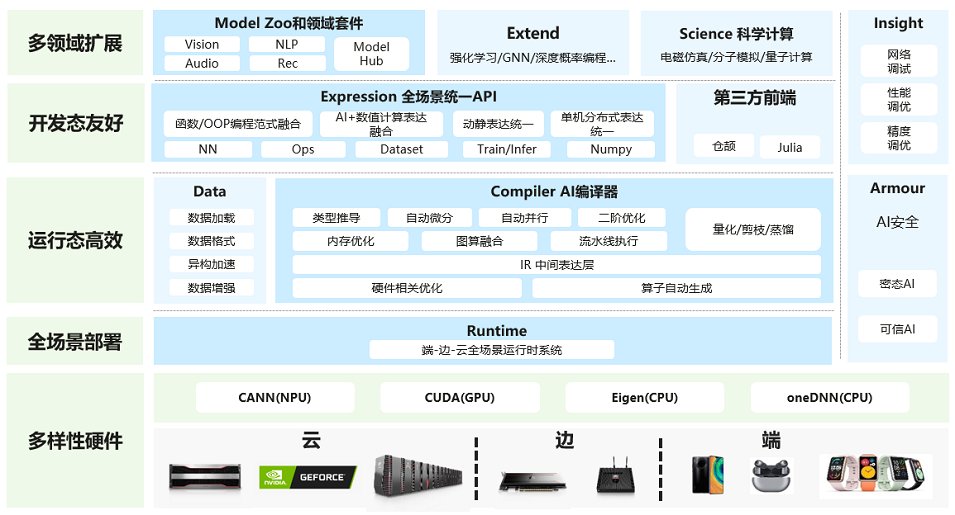
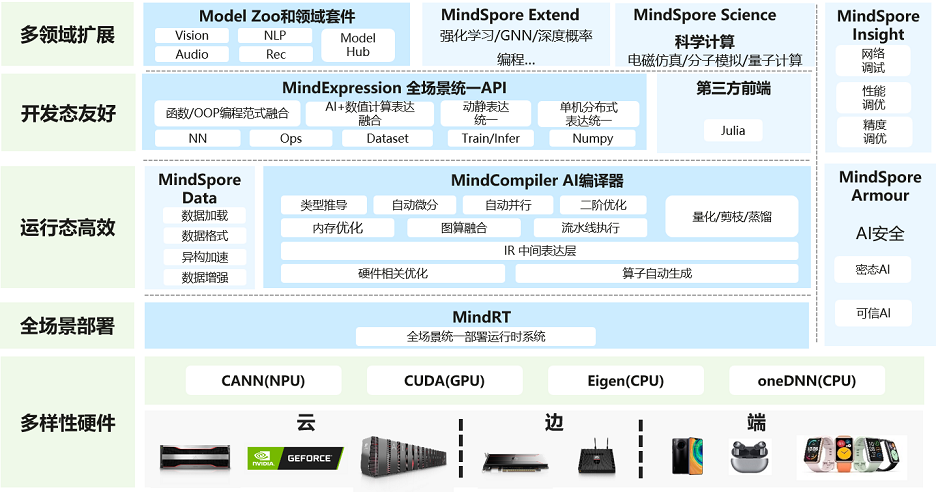
modify the tutorials file structure

diff --git a/tutorials/source_en/beginner/introduction.md b/tutorials/source_en/beginner/introduction.md
@@ -8,24 +8,24 @@ The following describes the Huawei AI full-stack solution and the position of Mi
 
 ## Introduction to MindSpore
 
-MindSpore is a deep learning framework in all scenarios, aiming to achieve easy development, efficient execution, and all-scenario coverage.
+MindSpore is a deep learning framework in all scenarios, aiming to achieve easy development, efficient execution, and unified deployment for all scenarios.
 
-Easy development features user-friendly APIs and low debugging difficulty. Efficient execution is reflected in computing, data preprocessing, and distributed training. All-scenario coverage means that the framework supports cloud, edge, and device scenarios.
+Easy development features user-friendly APIs and low debugging difficulty. Efficient execution is reflected in computing, data preprocessing, and distributed training. Unified deployment for all scenarios means that the framework supports cloud, edge, and device scenarios.
 
 The following figure shows the overall MindSpore architecture:
 
 ![MindSpore-arch](https://mindspore-website.obs.cn-north-4.myhuaweicloud.com/website-images/master/tutorials/source_en/beginner/images/introduction2.png)
 
 - **ModelZoo**: provides available deep learning algorithm networks, and more developers are welcome to contribute new networks. ([ModelZoo](https://gitee.com/mindspore/models))
-- **Extend**: The MindSpore expansion package supports new domain scenarios, such as GNN, deep probabilistic programming, and reinforcement learning. More developers are expected to contribute and build the library.
-- **Science**: MindScience is a scientific computing kit for various industries based on the converged MindSpore framework. It contains the industry-leading datasets, basic network structures, high-precision pre-trained models, and pre-and post-processing tools that accelerate application development of the scientific computing.
-- **Expression**: Python-based front-end expression and programming interface that supports two fusions (function/OOP programming paradigm fusion and AI+ numerical computation expression fusion) and two unifications (dynamic expression unification and single-computer distributed expression unification).
-- **Third-party front-end**: support for third-party multilingual front-end expression, the future plans to successively provide C/C++, Huawei self-developed programming language front-end - Cangjie (currently still in the pre-research stage) and other third-party front-end docking work, and the introduction of more third-party ecology.
-- **Data**: provides functions such as efficient data processing, common dataset loading and programming interfaces, and allows users to flexibly define processing registration and pipeline parallel optimization.
-- **Compiler**: The core compiler of the layer, which implements three major functions based on the unified device-cloud MindIR, including hardware-independent optimization (type derivation, automatic differentiation, and expression simplification), hardware-related optimization (automatic parallelism, memory optimization, graph kernel fusion, and pipeline execution), and optimization related to deployment and inference (quantification and pruning).
-- **Runtime**: MindSpore runtime system, including the runtime system on the cloud host, runtime system on the device, and lightweight runtime system of the IoT platform.
-- **Insight**: MindSpore visualized debugging and tuning tool, allowing users to debug and tune the training network ([More Information](https://mindspore.cn/mindinsight/docs/en/master/index.html)).
-- **Armour**: For enterprise-level applications, provides enhanced functions related to security and privacy protection, such as anti-robustness, model security testing, differential privacy training, privacy leakage risk assessment, and data drift detection ([More Information](https://mindspore.cn/mindarmour/docs/en/master/index.html)).
+- **MindSpore Extend**: The MindSpore expansion package supports new domain scenarios, such as GNN, deep probabilistic programming, and reinforcement learning. More developers are expected to contribute and build the library.
+- **MindSpore Science**: MindScience is a scientific computing kit for various industries based on the converged MindSpore framework. It contains the industry-leading datasets, basic network structures, high-precision pre-trained models, and pre-and post-processing tools that accelerate application development of the scientific computing.
+- **MindExpression**: Python-based front-end expression and programming interface that supports two fusions (function/OOP programming paradigm fusion and AI+ numerical computation expression fusion) and two unifications (dynamic expression unification and single-computer distributed expression unification).
+- **Third-party front-end**: support for third-party multilingual front-end expression, the future plans to successively provide C/C++ and other third-party front-end docking work, and the introduction of more third-party ecology.
+- **MindSpore Data**: provides functions such as efficient data processing, common dataset loading and programming interfaces, and allows users to flexibly define processing registration and pipeline parallel optimization.
+- **MindCompiler**: The core compiler of the layer, which implements three major functions based on the unified device-cloud MindIR, including hardware-independent optimization (type derivation, automatic differentiation, and expression simplification), hardware-related optimization (automatic parallelism, memory optimization, graph kernel fusion, and pipeline execution), and optimization related to deployment and inference (quantification and pruning).
+- **MindRT**: MindSpore runtime system, including the runtime system on the cloud host, runtime system on the device, and lightweight runtime system of the IoT platform.
+- **MindSpore Insight**: MindSpore visualized debugging and tuning tool, allowing users to debug and tune the training network ([More Information](https://mindspore.cn/mindinsight/docs/en/master/index.html)).
+- **MindSpore Armour**: For enterprise-level applications, provides enhanced functions related to security and privacy protection, such as anti-robustness, model security testing, differential privacy training, privacy leakage risk assessment, and data drift detection ([More Information](https://mindspore.cn/mindarmour/docs/en/master/index.html)).
 
 ### Execution Process
 
@@ -47,7 +47,7 @@ After the neural network model is trained, you can export the model or load the 
 
 ### Design Philosophy
 
-- Supporting full-scenario collaboration
+- Supporting unified deployment for all scenarios
 
     MindSpore is derived from industry-wide best practices. It provides unified model training, inference, and export APIs for data scientists and algorithm engineers. It supports flexible deployment in different scenarios such as the device, edge, and cloud, and promotes the prosperity of domains such as deep learning and scientific computing.
 
@@ -62,11 +62,11 @@ After the neural network model is trained, you can export the model or load the 
 
     For example, set `set_context(mode=PYNATIVE_MODE)` to switch to the dynamic graph mode, or set `set_context(mode=GRAPH_MODE)` to switch to the static graph mode.
 
-- Using functional differentiable programming architecture and allowing users to focus on the mathematical native expression of model algorithms
+- Using AI and scientific computing fusion programming and allowing users to focus on the mathematical native expression of model algorithms
 
-    Neural network models are usually trained based on gradient descent algorithms, but the manual derivation process is complicated and the results are prone to errors. The Automatic Differentiation mechanism based on Source Code Transformation (SCT) of MindSpore adopts a functional differentiable programming architecture, and provides a Python programming interface at the interface layer, including the expression of control flow. Users can focus on the mathematically native expression of the model algorithm without manual derivation.
+    On the basis of support for AI model training and inference programming, it extends the support for flexible automatic differential programming capability, supports differential derivation in the case of function and control flow expression, and supports various kinds of advanced differential capabilities, such as forward differentiation and higher-order differentiation, based on which users can realize the programming expression of differential functions commonly used in scientific computation, so as to support the fusion programming and development of AI and scientific computation.
 
-- Unifying the coding method of single device and distributed training
+- Distributed training native
 
     As a scale of neural network models and datasets continuously increases, parallel distributed training becomes a common practice of neural network training. However, the strategy selection and compilation of parallel distributed training are very complex, which severely restricts training efficiency of a deep learning model and hinders development of deep learning. MindSpore unifies the coding methods of single device and distributed training. Developers do not need to write complex distributed strategies. They can implement distributed training by adding a small amount of code to the single device code, which improves the efficiency of neural network training, greatly reduces the threshold of AI development, and enables users to quickly implement model ideas.
 
@@ -96,14 +96,16 @@ Ascend computing is a full-stack AI computing infrastructure and application bas
 
 Huawei Atlas AI computing solution is based on Ascend series AI processors and uses various product forms such as modules, cards, edge stations, servers, and clusters to build an all-scenario AI infrastructure solution oriented to device, edge, and cloud. It covers data center and intelligent edge solutions, as well as the entire inference and training processes in the deep learning field.
 
+Th Ascend AI full stack is shown below:
+
+![Ascend full stack](https://mindspore-website.obs.cn-north-4.myhuaweicloud.com/website-images/master/tutorials/source_en/beginner/images/introduction1.png)
+
 The functions of each module are described as follows:
 
-- **Atlas series**: provides AI training, inference cards, and training servers ([learn more](https://www.hiascend.com/en/ecosystem/industry)).
-- **CANN at heterogeneous computing architecture**: a driver layer that enables chips ([learn more](https://www.hiascend.com/en/software/cann)).
-- **MindSpore**: all-scenario AI framework ([learn more](https://www.mindspore.cn/en)).
-- **MindX SDK (Ascend SDK)**: provides the application solution ([learn more](https://www.hiascend.com/en/software/mindx-sdk)).
-- **ModelArts**: HUAWEI CLOUD AI development platform ([learn more](https://www.huaweicloud.com/product/modelarts.html)).
-- **MindStudio**: E2E development toolchain that provides one-stop IDE for AI development ([learn more](https://www.hiascend.com/en/software/mindstudio)).
+- **Ascend Application Enablement**: AI platform or service capabilities provided by Huawei major product lines based on MindSpore.
+- **MindSpore**: Support for device-edge-cloud-independent and collaborative unified training and inference frameworks.
+- **CANN**: A driver layer that enables Ascend chips ([learn more](https://www.hiascend.com/en/software/cann)).
+- **Compute Resources**: Ascend serialized IP, chips and servers.
 
 For details, click [Huawei Ascend official website](https://e.huawei.com/en/products/servers/ascend).
 

diff --git a/docs/mindspore/source_en/design/overview.md b/docs/mindspore/source_en/design/overview.md
@@ -28,7 +28,7 @@ The overall MindSpore architecture is divided into four layers:
 
 ## Design Concept
 
-MindSpore provides users with programming paradigms for languages such as Python. Based on source code conversion, users can use native Python control syntax and other advanced APIs such as Tuple, List, and Lambda expressions.
+MindSpore is a full-scenario deep learning framework that aims to achieve three goals: easy development, efficient execution, and unified deployment for all scenarios. Ease of development is characterized by a friendly API and low debugging difficulty; efficient execution includes computational efficiency, data preprocessing efficiency, and distributed training efficiency; and full-scenario means that the framework supports cloud, edge, and device-side scenarios at the same time.
 
 ### Programming Paradigm
 
@@ -42,12 +42,6 @@ MindSpore implements [functional differential programming](https://www.mindspore
 
 Also based on the functional programming paradigm, MindSpore provides a wealth of higher-order functions such as vmap, shard, and other built-in higher-order functions. Like the differential derivative function grad, it allows the user to conveniently construct a function or an object that can be used as an argument to a higher-order function. Higher-order functions are internally compiled and optimized to generate optimized versions of user-specific functions, implementing features such as vectorized transformations, distributed parallel slicing, and other functions.
 
-### [Device-edge-cloud Full Scenarios](https://www.mindspore.cn/docs/en/master/design/all_scenarios.html)
-
-MindSpore is an all-in-one AI framework that supports both training and inference. MindSpore also supports CPU, GPU, NPU and other chips, and provides a unified programming interface on different chips and generates offline models that can be loaded and executed on multiple hardware.
-
-MindSpore provides a variety of versions according to the actual execution environment and business requirements, supports deployment and execution on embedded devices such as cloud, server, and cell phones, and ultra-lightweight devices such as headsets.
-
 ### [Unified Programming Experience with Dynamic Graph and Static Graph](https://www.mindspore.cn/docs/en/master/design/dynamic_graph_and_static_graph.html)
 
 Traditional AI frameworks have two main forms of programming execution, static graph mode and dynamic graph mode.
@@ -58,13 +52,9 @@ The static graph mode can effectively perceive the relationship situation betwee
 
 Dynamic graph mode can effectively solve the more complex problems of programming static graphs. However, because the program is executed in the order in which the code is written, no integral-graph compilation optimization is done, resulting in less room for relative performance optimization, especially for proprietary hardware such as DSA, which is more difficult to enable.
 
-MindSpore builds the graph structure of neural networks based on the native Python, which can be more easily and flexibly expressed than the traditional static graph model. It is also better compatible with programming interfaces for dynamic and static graphs, such as for control flow, and dynamic graphs can be programmed directly based on Python control flow keyword. Static graphs require programming based on special control flow operators or require user programming to instruct the control flow execution branches, which results in large programming differences between dynamic and static graphs.
+MindSpore builds the graph structure of neural networks based on the native Python, which can be more easily and flexibly expressed than the traditional static graph model. MindSpore's innovative build source conversion capability extracts ASTs for computational graph construction based on python statements, so it can support users to construct computational graphs using python's native control syntax (conditional statements, loops, etc.) and some other advanced APIs such as tuples, lists, and Lambda expressions, and perform automatic differentiation of computational graphs. As a result, there is also better compatibility between the programming interfaces for dynamic and static graphs, e.g., consistent control-flow oriented writing.
 
 The native Python expression enables the execution of static graph mode directly based on the Python control flow keyword, making the programming of dynamic and static graphs more uniform. At the same time, users can flexibly control the dynamic and static graph mode of Python code fragments based on interfaces of MindSpore. That is, it is possible to execute the local functions of the program in static graph mode while the other functions are executed in dynamic graph mode. Thus, when interleaved with common Python libraries and custom Python functions, users have the flexibility to specify function fragments for static graph optimization acceleration without sacrificing the ease of programming for interleaved execution.
-
-### [Third-Party Hardware Access](https://www.mindspore.cn/docs/en/master/design/pluggable_device.html)
-
-MindSpore builds an open AI architecture based on the unified MindIR, which supports plug-in, standardization and low-cost access of third-party chips, and can access GPU series chips as well as various DSA chips. MindSpore provides two kinds of chip access methods, Kernel mode access and Graph mode access, and chip makers can choose the access method according to their own characteristics.
 
 ### [Distributed Parallism](https://www.mindspore.cn/docs/en/master/design/distributed_training_design.html)
 
@@ -109,6 +99,16 @@ Data sink means that the data is transferred directly to the Device through the 
 #### Algorithm Optimization
 
 The algorithm optimization includes second-order optimization, boost optimization, etc.
+
+### [Unified Deployment for All Scenarios](https://www.mindspore.cn/docs/en/master/design/all_scenarios.html)
+
+MindSpore is an all-in-one AI framework that supports both training and inference. MindSpore also supports CPU, GPU, NPU and other chips, and provides a unified programming interface on different chips and generates offline models that can be loaded and executed on multiple hardware.
+
+MindSpore provides a variety of versions according to the actual execution environment and business requirements, supports deployment and execution on embedded devices such as cloud, server, and cell phones, and ultra-lightweight devices such as headsets.
+
+### [Third-Party Hardware Access](https://www.mindspore.cn/docs/en/master/design/pluggable_device.html)
+
+MindSpore builds an open AI architecture based on the unified MindIR, which supports plug-in, standardization and low-cost access of third-party chips, and can access GPU series chips as well as various DSA chips. MindSpore provides two kinds of chip access methods, Kernel mode access and Graph mode access, and chip makers can choose the access method according to their own characteristics.
 
 ### [Overall Security and Trustworthiness Design](https://www.mindspore.cn/mindarmour/docs/en/master/design.html)
 

diff --git a/docs/mindquantum/docs/source_en/initial_experience_of_quantum_neural_network.md b/docs/mindquantum/docs/source_en/initial_experience_of_quantum_neural_network.md
@@ -245,7 +245,7 @@ Simulator.get_expectation_with_grad(ham,
 This function is suitable for computing the following models: $E=\left<0\right|U^\dagger_l(\theta) H U_r(\theta)\left|0\right>$ Where `circ_right` is `Ur`, `circ_left` is `Ul`, when not provided, the default is the same circuit as `circ_right`,
 `parallel_worker` specifies the number of parallels. When the classical data to be encoded is a batch, setting this parameter reasonably can improve the calculation efficiency.
 
-(2) MindSpore is a full-scene deep learning framework, aiming to achieve three goals of easy development, efficient execution, and full-scene coverage, provides tensor-differentiable programmability that supports heterogeneous acceleration, supports cloud, server, edge and end multiple hardware platforms.
+(2) MindSpore is a full-scene deep learning framework, aiming to achieve three goals of easy development, efficient execution, and unified deployment for all scenarios, provides tensor-differentiable programmability that supports heterogeneous acceleration, supports cloud, server, edge and end multiple hardware platforms.
 
 ## Building a quantum neural network
 

diff --git a/docs/mindquantum/docs/source_en/classification_of_iris_by_qnn.md b/docs/mindquantum/docs/source_en/classification_of_iris_by_qnn.md
@@ -334,7 +334,7 @@ As can be seen from the above printing, we have successfully built a quantum mac
 
 Note:
 
-MindSpore is an all-scenario deep learning framework that aims to achieve the three goals of easy development, efficient execution, and full-scenario coverage. It provides tensor differentiable programming capabilities that support heterogeneous acceleration, and also supports cloud, server, edge and end multiple hardware platforms.
+MindSpore is an all-scenario deep learning framework that aims to achieve the three goals of easy development, efficient execution, and unified deployment for all scenarios. It provides tensor differentiable programming capabilities that support heterogeneous acceleration, and also supports cloud, server, edge and end multiple hardware platforms.
 
 ## Training
 
